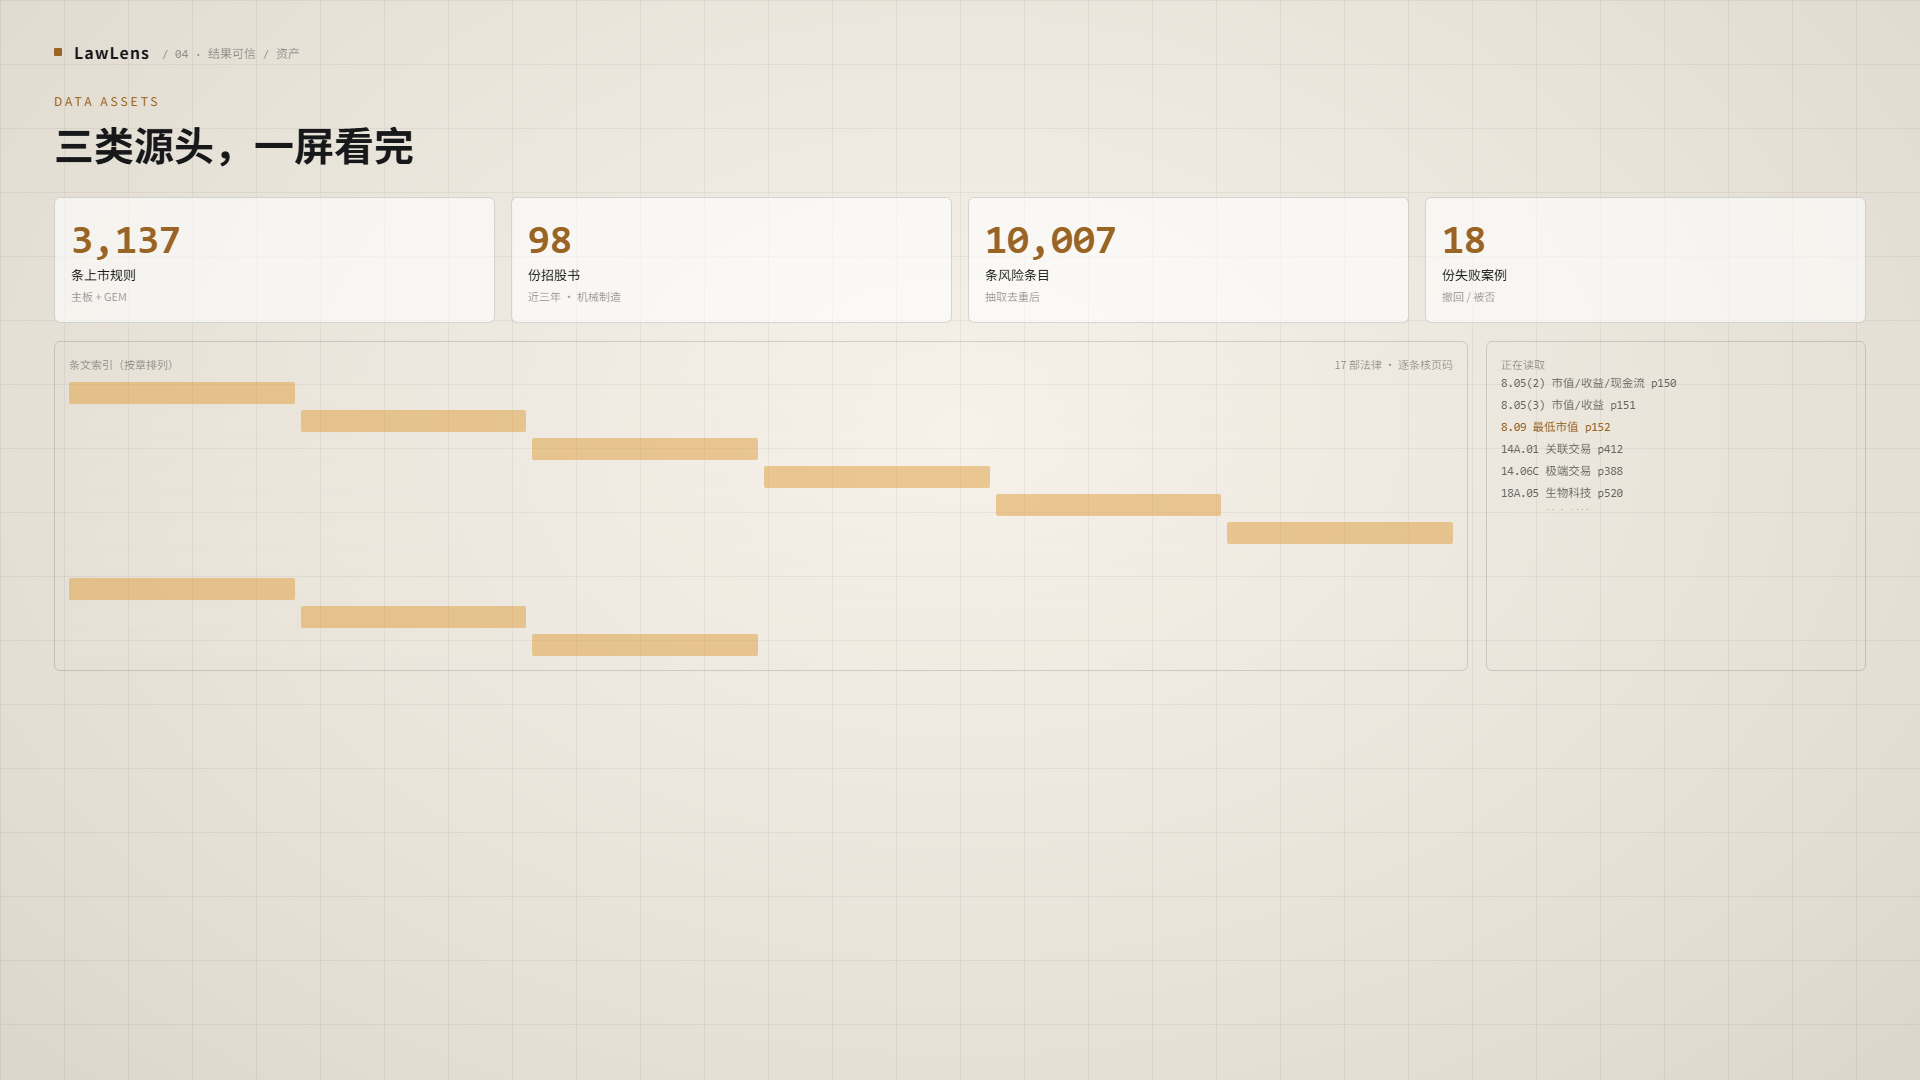
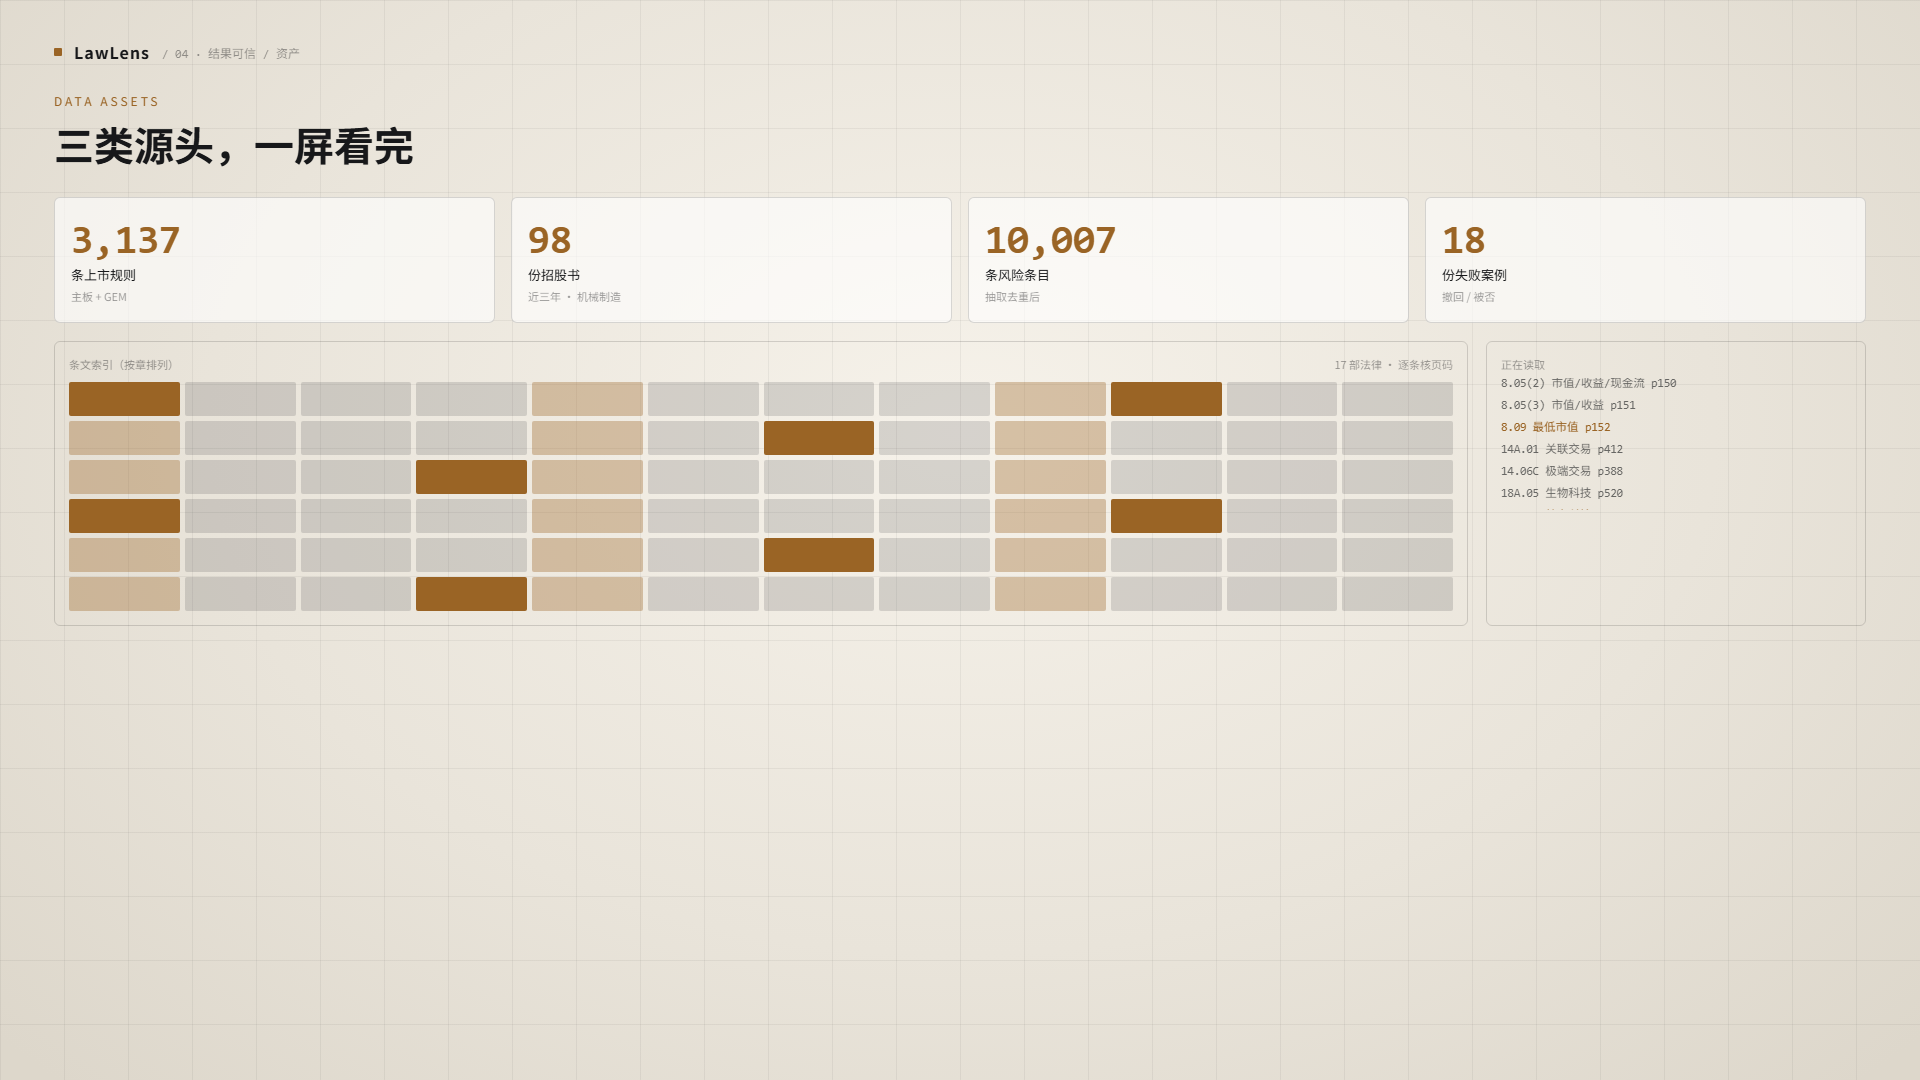
storyboard(ch4): 标题改为「结果可溯源，可重复」

Changed region(s): [[0.0312, 0.3361, 0.7812, 0.6111]]

diff --git a/docs/分镜-第04章-结果可信.md b/docs/分镜-第04章-结果可信.md
@@ -12,7 +12,7 @@
 | 3 | 0:20–0:30 | 10s | 定位失败：EQT-02 标红「第 1 页无此段」→ 判未验证 | 找不到原文的，不算数 | No source, no finding |
 | 4 | 0:30–0:42 | 12s | 数据来源：3,137 条规则 / 98 份招股书 / 17 部法律 + 三条索引 | 三类源头，逐条可查 | Three sources, all traceable |
 | 5 | 0:42–0:52 | 10s | 规则版本：v2026.10 · 更新 10-28 · 本次 12 条 | 规则有版本，更新有记录 | Rules are versioned |
-| 6 | 0:52–1:02 | 10s | 计算过程：取数 → 换算 → 门槛 → 判定，四行算式 | 计算过程摊开给你看 | The maths, in the open |
+| 6 | 0:52–1:02 | 10s | 计算过程：结果可溯源，可重复——取数 → 换算 → 门槛 → 判定 | 计算过程摊开给你看 | The maths, in the open |
 | 7 | 1:02–1:12 | 10s | 律师复核：待复核 → 复核通过 → 复核记录三条 | 律师签字前，不定稿 | Nothing final before counsel |
 | 8 | 1:12–1:10 | 8s | 四宫格收束：依据 / 版本 / 过程 / 复核 | 四件事，撑住「可信」 | Four things make it credible |
 
